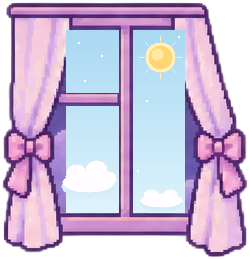
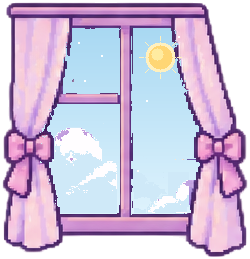
Ajusta cena diurna e posicao do gato no login Nuvia

Changed region(s): [[0.168, 0.0927, 0.812, 0.834], [0.252, 0.0927, 0.476, 0.3707], [0.308, 0.3398, 0.392, 0.3707]]

diff --git a/frontend/decoracoes.css b/frontend/decoracoes.css
@@ -207,6 +207,8 @@ body.tela-login {
 .login-cena-notebook { bottom: 168px; left: 19%; }
 .login-cena-livros { bottom: 162px; left: 54%; }
 .login-cena-gato { bottom: 205px; left: 51%; z-index: 2; }
+/* Gato acordado: um pouco menor e centralizado sobre a pilha de livros. */
+.login-cena-gato--acordado { left: 56%; width: 22%; }
 
 /* Cena diurna/noturna: as duas variantes ficam sobrepostas e alternam por opacidade. */
 .login-cena-janela,
